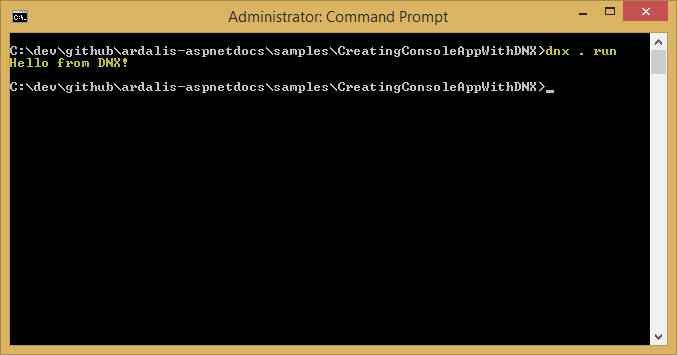
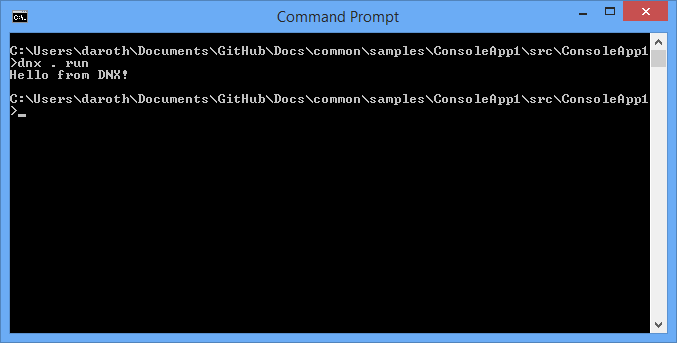
Update console article to beta6

Changed region(s): [[0.0, 0.0, 1.0, 1.0]]

diff --git a/common/samples/ConsoleApp1/src/ConsoleApp1/Program.cs b/common/samples/ConsoleApp1/src/ConsoleApp1/Program.cs
@@ -1,0 +1,15 @@
+using System;
+using System.Collections.Generic;
+using System.Linq;
+using System.Threading.Tasks;
+
+namespace ConsoleApp1
+{
+    public class Program
+    {
+        public void Main(string[] args)
+        {
+            Console.WriteLine("Hello from DNX!");
+        }
+    }
+}

diff --git a/aspnet/dnx/console.rst b/aspnet/dnx/console.rst
@@ -10,7 +10,7 @@ In this article:
 	- `Specifying Project Settings`_
 	- `Running the App`_
 	
-You can `view and download the source <https://github.com/aspnet/Docs/tree/master/samples/CreatingConsoleAppWithDNX>`_ from the project created in this article.
+You can `view and download the source <https://github.com/aspnet/Docs/tree/master/common/samples/ConsoleApp1>`_ from the project created in this article.
 
 Creating a Console App
 ----------------------
@@ -23,7 +23,7 @@ Open a console or terminal window in an empty working folder, where ``dnx`` is c
 
 Creating a console application is extremely straightforward. For this article, we're going to use the following C# class, which has just one line of executable code:
 
-.. literalinclude:: console/sample/Program.cs
+.. literalinclude:: /../common/samples/ConsoleApp1/src/ConsoleApp1/Program.cs
 	:linenos:
 	:language: c#
 	
@@ -34,9 +34,11 @@ Specifying Project Settings
 
 Next, we need to provide the project settings DNX will use. Create a new ``project.json`` file in the same folder, and edit it to match the listing shown here:
 
-.. literalinclude:: console/sample/project.json
+.. literalinclude:: /../common/samples/ConsoleApp1/src/ConsoleApp1/project.json
 	:linenos:
-	:language: javascript
+	:language: json
+
+The ``project.json`` files defines the app dependencies and target frameworks in addition to various metadata properties about the app. See :doc:`projects` for more details.
 
 Save your changes.
 
@@ -47,17 +49,19 @@ At this point, we're ready to run the app. You can do this by simply entering ``
 
 .. image:: console/_static/dnx-run.png
 
-.. note:: ``dnx`` references several `environment variables <https://github.com/aspnet/Home/wiki/Environment-Variables>`_, such as ``DNX_TRACE``, that affect its behavior.
+.. note:: The ``dnx`` command is used to execute a managed entry point (a ``Program.Main`` function) in an assembly. The ``dnx . run`` command is a shorthand for executing the entry point in the current project. It is equivalent to ``dnx . [project_name]``
+
+You can select which CLR to run on using the .NET Version Manager (DNVM). To run on CoreCLR first run ``dnvm use [version] -r CoreCLR``. To return to using the .NET Framework CLR run ``dnvm use [version] -r CLR``.
+
+You can see the app continues to run after switching to use CoreCLR:
+
+.. image:: console/_static/dnx-run-coreclr.png
+
+The ``dnx`` command references several `environment variables <https://github.com/aspnet/Home/wiki/Environment-Variables>`_, such as ``DNX_TRACE``, that affect its behavior.
 
 Set the ``DNX_TRACE`` environment variable to 1, and run the application again. You should see a great deal more output:
 
 .. image:: console/_static/dnx-trace-run.png
-
-In this example, running on the Windows platform, the default behavior for DNX is to run on the full .NET Framework. You can switch to use the CoreCLR by running ``dnvm upgrade -r CoreCLR``. To return to using .NET CLR, run ``dnvm upgrade -r CLR``.
-
-You can see the app continues to run after switching to use CoreCLR:
-
-.. image:: console/_static/dnx-trace-coreclr-run.png
 
 Summary
 -------
